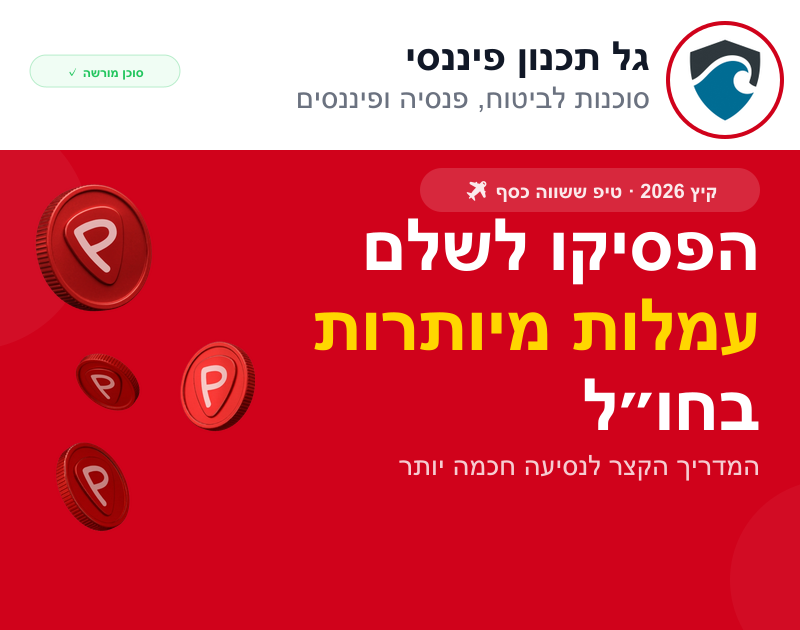
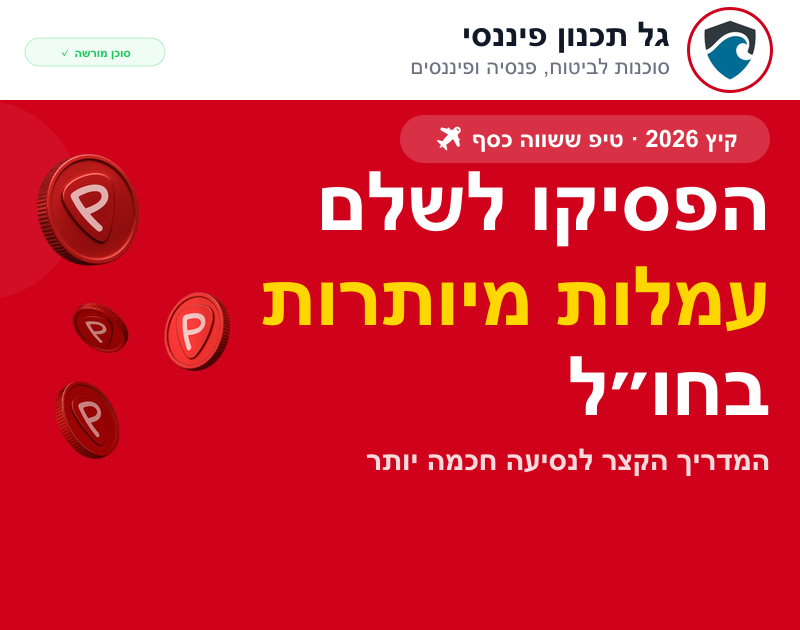
Redesign OG preview as WhatsApp ad — maximize red hero area
- Shrunk white header from 150px to 100px
- Headline 72→82px, badge 20→24px, subtitle 28→30px
- Agent photo 110→80px, fits compact header
- Red hero section now dominates the preview image
- All text readable at WhatsApp thumbnail size

Changed region(s): [[0.0, 0.0, 1.0, 0.8444], [0.4688, 0.6937, 0.9688, 0.754]]

diff --git a/scripts/generate-og.js b/scripts/generate-og.js
@@ -17,20 +17,20 @@ const BASE_IMG = path.join(ROOT, 'public', 'images', 'og-base.png');
 const AGENTS_DIR = path.join(ROOT, 'public', 'images', 'agents');
 const OG_DIR = path.join(ROOT, 'public', 'images', 'og');
 
-// Layout config (800x630 base image)
-const CIRCLE_DIAMETER = 110;
-const CIRCLE_X = 670;
-const CIRCLE_Y = 25;
-const BORDER_WIDTH = 4;
+// Layout config (800x630 base image, 100px header)
+const CIRCLE_DIAMETER = 80;
+const CIRCLE_X = 690;
+const CIRCLE_Y = 10;
+const BORDER_WIDTH = 3;
 const BORDER_COLOR = '#D0021B';
 
-const NAME_X = 650;
-const NAME_Y = 30;
-const NAME_FONT_SIZE = 40;
+const NAME_X = 670;
+const NAME_Y = 12;
+const NAME_FONT_SIZE = 34;
 
-const TITLE_X = 650;
-const TITLE_Y = 78;
-const TITLE_FONT_SIZE = 30;
+const TITLE_X = 670;
+const TITLE_Y = 52;
+const TITLE_FONT_SIZE = 22;
 
 function escapeXml(str) {
   return str.replace(/&/g, '&amp;').replace(/</g, '&lt;').replace(/>/g, '&gt;').replace(/"/g, '&quot;').replace(/'/g, '&apos;');
